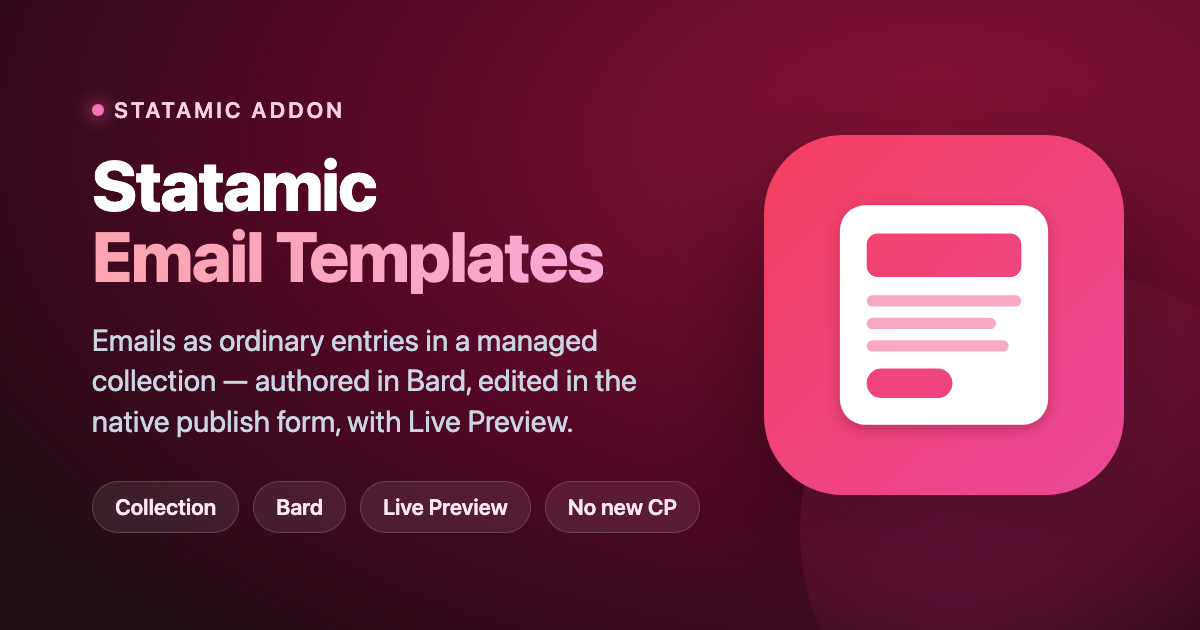
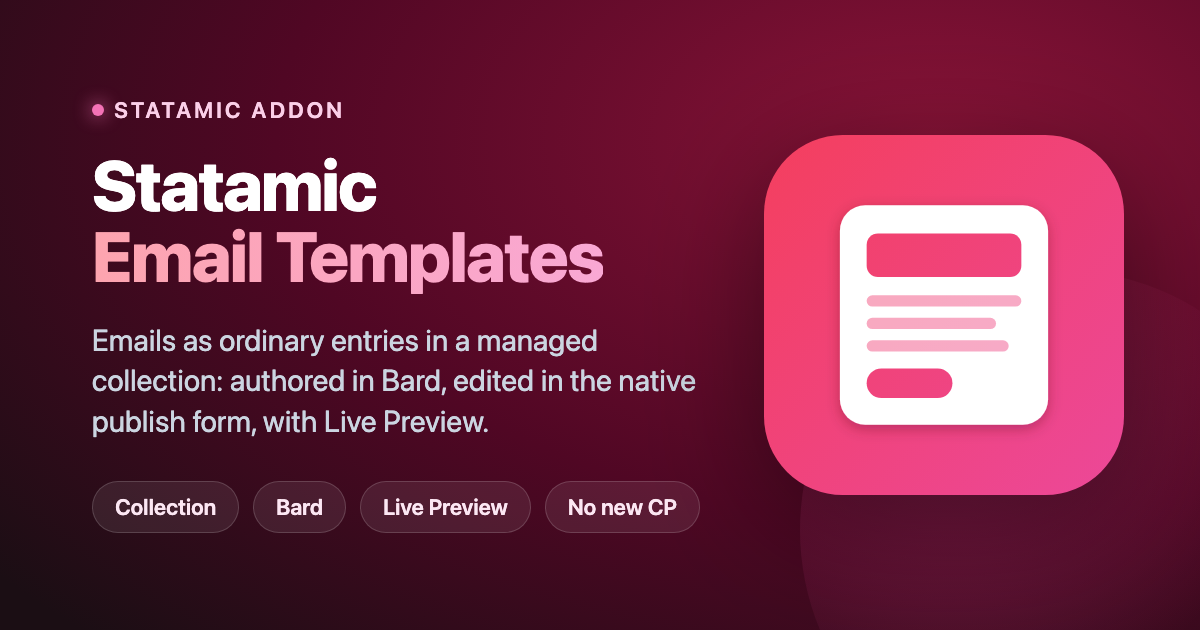
chore(art): Gedankenstrich aus Cover-Untertitel entfernen
Adrians Copy-Regel erlaubt in Marketingtexten keine Gedankenstriche.
Der Halbgeviertstrich im Untertitel ist durch einen Doppelpunkt aufgeloest,
nicht durch einen Bindestrich ersetzt.

Cover-PNG aus cover.html neu gerendert, Masse unveraendert bei 1200x630.

Changed region(s): [[0.0617, 0.573, 0.5858, 0.6937]]

diff --git a/art/cover.html b/art/cover.html
@@ -35,7 +35,7 @@
     <div class="copy">
       <span class="eyebrow"><span class="dot"></span>Statamic Addon</span>
       <h1>Statamic<br><span class="accent">Email Templates</span></h1>
-      <p class="sub">Emails as ordinary entries in a managed collection &mdash; authored in Bard, edited in the native publish form, with Live Preview.</p>
+      <p class="sub">Emails as ordinary entries in a managed collection: authored in Bard, edited in the native publish form, with Live Preview.</p>
       <div class="badges">
         <span class="badge">Collection</span>
         <span class="badge">Bard</span>
